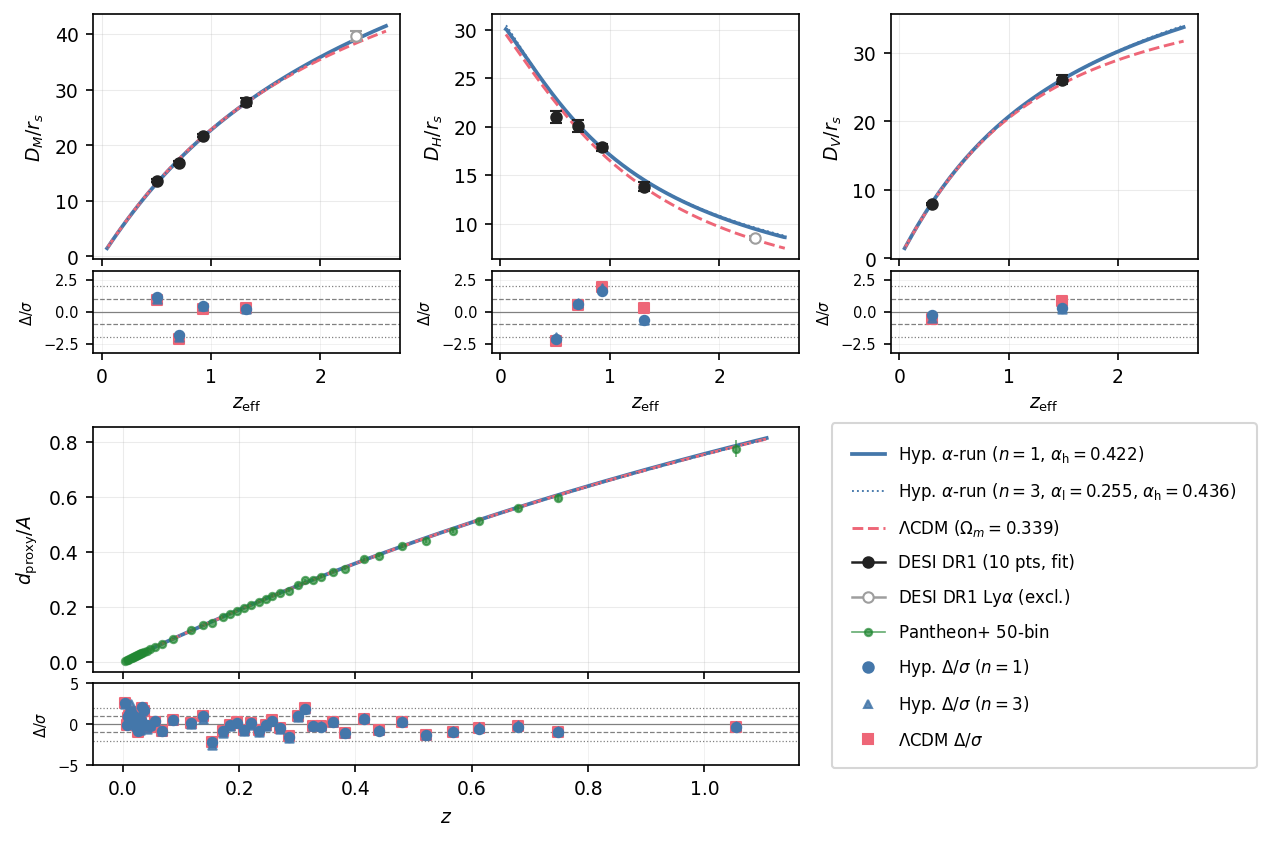
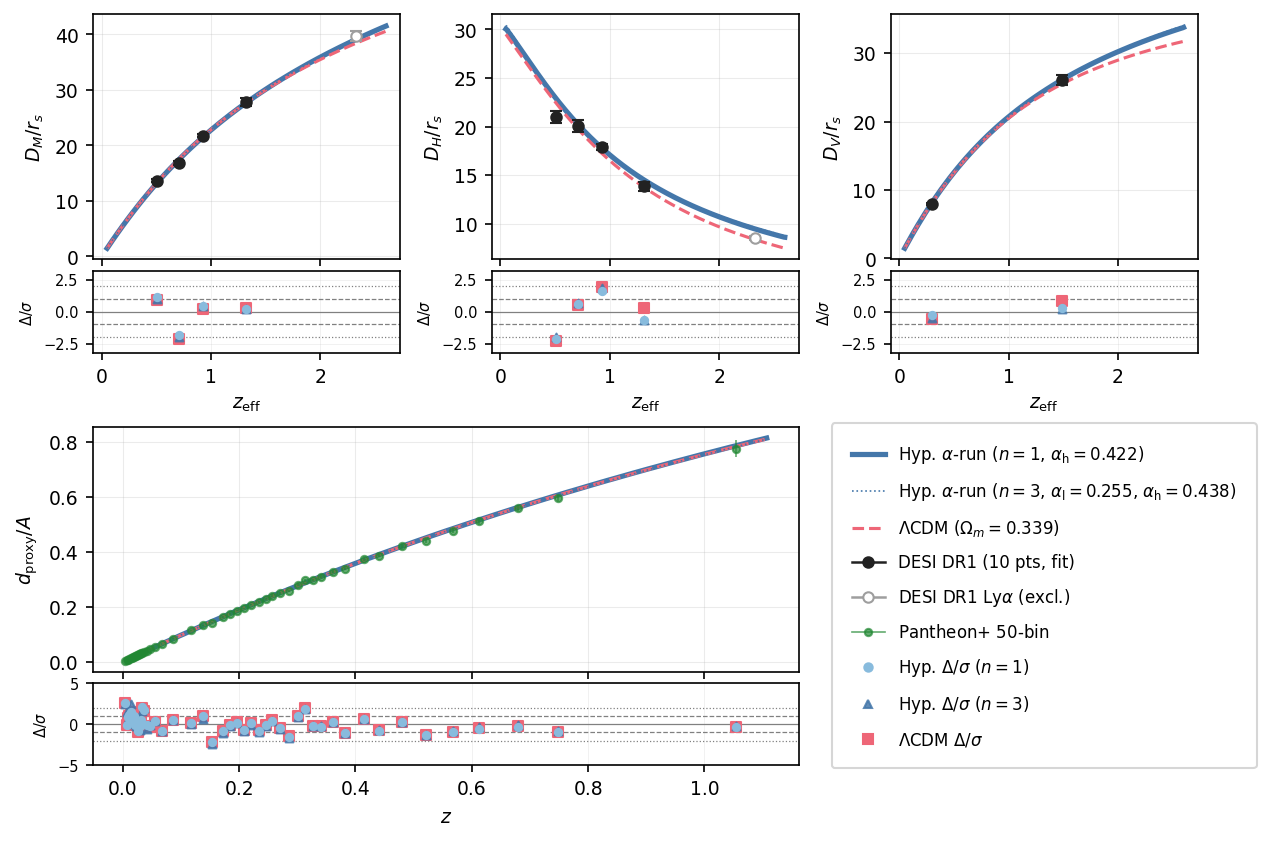
Move method to §2.3; fix chi2 defs; improve Fig 1 line widths and residual markers
- §2.3: define chi2_Yp, chi2_DH; describe 3-par Nelder-Mead joint minimisation;
  define chi2_nu = chi2/(N-n); remove chi2_nu from table footnote
- Results: remove methodological clause from Three-parameter extension paragraph;
  keep only values and findings
- Fig 1: n=1 lw=2.5, LCDM lw=1.5, n=3 lw=0.8 (more contrast);
  n=1 residual markers now lighter blue (#88BBDD), s=12 (smaller, visible above LCDM);
  AH_3PAR updated to 0.4379; legend alpha_h label corrected to 0.438

diff --git a/main.tex b/main.tex
@@ -104,7 +104,7 @@ Flat $\Lambda$CDM serves as the reference throughout.  The Hubble rate is theref
 
 \subsection{Likelihood analysis}\label{sec:methods:likelihood}
 
-Statistical analyses keep $\alpha$ as the single geometric parameter. The fit quality is measured by $\chi_{\rm BAO}^2=(\mathbf{D}^{\rm obs}-\mathbf{D}^{\rm model})^T C^{-1}(\mathbf{D}^{\rm obs}-\mathbf{D}^{\rm model})$, where $\mathbf{D}$ is the vector of measured distance ratios $\{D_M/r_s, D_H/r_s, D_V/r_s\}$ and $C$ is the DESI DR1 full covariance matrix across all BAO distance combinations. Nuisance parameters are eliminated analytically: for BAO the nuisance $\beta=c/(H_0 r_s)$ is minimized at each $\alpha$. For the supernova data, $\chi^2_{\rm SN}=\sum_i [d_{\rm proxy}(z_i)-A\,D_C^{\rm model}(z_i)]^2/\sigma_{d,i}^2$, where $A$ is marginalized analytically. The joint figure of merit is $\chi^2_{\rm joint}=\chi^2_{\rm BAO}+\chi^2_{\rm SN}$, with $\nu=N-n$ ($N$ data points in the constraint, $n$ free parameters), giving $\nu_{\rm BAO}=9$ and $\nu_{\rm SN}=49$. All quoted uncertainties are $1\sigma$; values in parenthetical notation refer to error in the last quoted digit. For model comparison, flat $\Lambda$CDM with free $\Omega_m$ and the same nuisance marginalizations is fitted to the same data, with the Akaike Information Criterion (AIC; \cite{burnham2002model}) adopting $|\Delta\mathrm{AIC}|<2$ as the threshold for indistinguishable model performance.
+Statistical analyses keep $\alpha$ as the single geometric parameter. The fit quality is measured by $\chi_{\rm BAO}^2=(\mathbf{D}^{\rm obs}-\mathbf{D}^{\rm model})^T C^{-1}(\mathbf{D}^{\rm obs}-\mathbf{D}^{\rm model})$, where $\mathbf{D}$ is the vector of measured distance ratios $\{D_M/r_s, D_H/r_s, D_V/r_s\}$ and $C$ is the DESI DR1 full covariance matrix across all BAO distance combinations. Nuisance parameters are eliminated analytically: for BAO the nuisance $\beta=c/(H_0 r_s)$ is minimized at each $\alpha$. For the supernova data, $\chi^2_{\rm SN}=\sum_i [d_{\rm proxy}(z_i)-A\,D_C^{\rm model}(z_i)]^2/\sigma_{d,i}^2$, where $A$ is marginalized analytically. \textcolor{blue}{For the BAO+SN+BBN comparison, single-measurement residuals are appended: $\chi^2_{Y_p}=[(Y_p^{\rm model}-Y_p^{\rm obs})/\sigma_{Y_p}]^2$ and $\chi^2_{\rm D/H}=[(\mathrm{D/H}^{\rm model}-\mathrm{D/H}^{\rm obs})/\sigma_{\rm D/H}]^2$. In the three-parameter extension, $\chi^2_{\rm joint}=\chi^2_{\rm BAO}+\chi^2_{\rm SN}+\chi^2_{Y_p}+\chi^2_{\rm D/H}$ is minimised simultaneously over $(\alpha_{\rm low},\alpha_{\rm high},\eta)$ using Nelder--Mead optimisation; for BAO+SN-only fits, the figure of merit is $\chi^2_{\rm joint}=\chi^2_{\rm BAO}+\chi^2_{\rm SN}$.} \textcolor{red}{\sout{The joint figure of merit is $\chi^2_{\rm joint}=\chi^2_{\rm BAO}+\chi^2_{\rm SN}$, with $\nu=N-n$ ($N$ data points in the constraint, $n$ free parameters), giving $\nu_{\rm BAO}=9$ and $\nu_{\rm SN}=49$.}}\textcolor{blue}{The reduced chi-squared per observable is $\chi^2_\nu=\chi^2/(N-n)$, where $N$ is the number of data points and $n$ the number of free parameters; $\nu_{\rm BAO}=9$ and $\nu_{\rm SN}=49$.} All quoted uncertainties are $1\sigma$; values in parenthetical notation refer to error in the last quoted digit. For model comparison, flat $\Lambda$CDM with free $\Omega_m$ and the same nuisance marginalizations is fitted to the same data, with the Akaike Information Criterion (AIC; \cite{burnham2002model}) adopting $|\Delta\mathrm{AIC}|<2$ as the threshold for indistinguishable model performance.
 
 \section{Results}\label{sec:results}
 
@@ -120,7 +120,7 @@ Statistical analyses keep $\alpha$ as the single geometric parameter. The fit qu
 
 \paragraph{One-parameter model comparison} The constant-$\alpha$ model (best-fit $\alpha=0.320$ for BAO+SN) gives $\chi^2_{\nu,\rm BAO}=2.70$, substantially worse than the $\Lambda$CDM reference ($\chi^2_{\nu,\rm BAO}=1.789$; Table~\ref{tab:joint}), motivating the running-$\alpha$ extension. Among running-$\alpha$ configurations, the BAO+SN-only fit gives $\alpha_{\rm high}=0.425(26)$, $\langle H_{\rm perc}/H_{\rm rad}\rangle_{\rm geom}\approx1.09$, and $\Delta\mathrm{AIC}_{\rm tot}=-1.86$. Enforcing the BBN normalisation $\langle H_{\rm perc}/H_{\rm rad}\rangle_{\rm geom}=1.000$ over $T=0.07$--$0.10\,\mathrm{MeV}$ ($\sigma_H=4\%$ from $Y_p$ \cite{Aver2021,fields2020bbn}) pins $\alpha_{\rm high}=0.422(1)$ with $\chi^2_{\nu,\rm BAO}=1.418$ and $\chi^2_{\nu,\rm SN}=0.816$. A freeze-out calculation \cite{kolbturner1990} yields $Y_p=0.153(6)$, however, indicating that the geometric-mean proxy covers the late synthesis window but not the $n/p$ freeze-out at $T\sim0.8\,\mathrm{MeV}$. 
 
-\paragraph{Three-parameter extension} Freeing $\alpha_{\rm low}$ and $\eta$ in addition to $\alpha_{\rm high}$ ($n=3$,  Table~\ref{tab:joint}) resolves this: $\alpha_{\rm high}$ is constrained by $Y_p$ and $\alpha_{\rm low}$ by a \textcolor{red}{\sout{profile-likelihood fit to the joint BAO+SN data at fixed $\alpha_{\rm high}$}}\textcolor{blue}{joint minimisation of $\chi^2_{\rm BAO}+\chi^2_{\rm SN}+\chi^2_{Y_p}+\chi^2_{\rm D/H}$ over all three parameters simultaneously}, yielding $\alpha_{\rm low}=0.255(16)$ and $\alpha_{\rm high}=\textcolor{red}{\sout{0.4364}}\textcolor{blue}{0.4379}(5)$, with $Y_p=\textcolor{red}{\sout{0.240(3)}}\textcolor{blue}{0.2454(34)}$ (\textcolor{red}{\sout{within $1.5\sigma$ of}}\textcolor{blue}{matching} the observed $0.2453\pm0.0034$ \cite{Aver2021} \textcolor{blue}{to within $0.03\sigma$}) and $\Delta\mathrm{AIC}_{\rm tot}=\textcolor{red}{\sout{-0.80}}\textcolor{blue}{-2.9}$ against the 2-par $\Lambda$CDM reference ($n=3$ against $n=2$), \textcolor{red}{\sout{placing the two models within the $|\Delta\mathrm{AIC}|<2$ indistinguishability threshold}}\textcolor{blue}{mildly favouring the hyperconical model}. Fitting the primordial deuterium abundance \cite{schoneberg2024bbn} requires $\eta=\textcolor{red}{\sout{7.66(6)}}\textcolor{blue}{7.725(78)}\times10^{-10}$, ${\approx}\,\textcolor{red}{\sout{25}}\textcolor{blue}{27}\%$ above the CMB-derived $\eta_{\rm CMB}=6.11\times10^{-10}$; the consistency of this $\eta$ within the hyperconical model remains a subject for future work. The $\Delta\mathrm{AIC}=-2.9$ result is robust to the adopted $H_0$: re-optimising $(\alpha_{\rm low},\alpha_{\rm high},\eta)$ over $H_0\in[65,74]\,\mathrm{km\,s^{-1}\,Mpc^{-1}}$ gives $\Delta\mathrm{AIC}\in[-3.0,-2.8]$, with $\alpha_{\rm high}$ absorbing the shift in BBN expansion rate.
+\paragraph{Three-parameter extension} Freeing $\alpha_{\rm low}$ and $\eta$ in addition to $\alpha_{\rm high}$ ($n=3$,  Table~\ref{tab:joint}) resolves this\textcolor{red}{\sout{: $\alpha_{\rm high}$ is constrained by $Y_p$ and $\alpha_{\rm low}$ by a joint minimisation of $\chi^2_{\rm BAO}+\chi^2_{\rm SN}+\chi^2_{Y_p}+\chi^2_{\rm D/H}$ over all three parameters simultaneously}}\textcolor{blue}{,} yielding $\alpha_{\rm low}=0.255(16)$ and $\alpha_{\rm high}=\textcolor{red}{\sout{0.4364}}\textcolor{blue}{0.4379}(5)$, with $Y_p=\textcolor{red}{\sout{0.240(3)}}\textcolor{blue}{0.2454(34)}$ (\textcolor{red}{\sout{within $1.5\sigma$ of}}\textcolor{blue}{matching} the observed $0.2453\pm0.0034$ \cite{Aver2021} \textcolor{blue}{to within $0.03\sigma$}) and $\Delta\mathrm{AIC}_{\rm tot}=\textcolor{red}{\sout{-0.80}}\textcolor{blue}{-2.9}$ against the 2-par $\Lambda$CDM reference ($n=3$ against $n=2$), \textcolor{red}{\sout{placing the two models within the $|\Delta\mathrm{AIC}|<2$ indistinguishability threshold}}\textcolor{blue}{mildly favouring the hyperconical model}. Fitting the primordial deuterium abundance \cite{schoneberg2024bbn} requires $\eta=\textcolor{red}{\sout{7.66(6)}}\textcolor{blue}{7.725(78)}\times10^{-10}$, ${\approx}\,\textcolor{red}{\sout{25}}\textcolor{blue}{27}\%$ above the CMB-derived $\eta_{\rm CMB}=6.11\times10^{-10}$; the consistency of this $\eta$ within the hyperconical model remains a subject for future work. The $\Delta\mathrm{AIC}=-2.9$ result is robust to the adopted $H_0$: re-optimising $(\alpha_{\rm low},\alpha_{\rm high},\eta)$ over $H_0\in[65,74]\,\mathrm{km\,s^{-1}\,Mpc^{-1}}$ gives $\Delta\mathrm{AIC}\in[-3.0,-2.8]$, with $\alpha_{\rm high}$ absorbing the shift in BBN expansion rate.
 
 \begin{table*}[htbp]
 \centering
@@ -149,7 +149,7 @@ Statistical analyses keep $\alpha$ as the single geometric parameter. The fit qu
 \hline\hline
 \end{tabular}
 \par\vspace{2pt}
-{\footnotesize $^*$D/H in units of $10^{-5}$ and $\eta$ in units of $10^{-10}$. $H_\mathrm{norm}=\langle H_{\rm perc}/H_{\rm rad}\rangle_{\rm geom}$ at $T=0.07$--$0.10\,\mathrm{MeV}$ (Eq.~\ref{eq:running_sqrt}); $n$: number of free parameters (nuisances $\beta$, $A$ marginalized analytically); $\chi^2_\nu = \chi^2/(N-n)$ per observable; $\Delta\chi^2_{\rm BBN}$ and $\chi^2_{\nu,\rm BBN}$ include $Y_p$ and D/H residuals (D/H absent for BAO+SN block); $\Delta\mathrm{AIC}_{\rm tot}=\Delta\chi^2_{\rm BAO}+\Delta\chi^2_{\rm SN}+\Delta\chi^2_{\rm BBN}+2\Delta n$ vs.\ the $\Lambda$CDM reference in each block. $Y_p$ values from a Kolb--Turner analytical calculator \cite{kolbturner1990} recalibrated to $Y_p^{\rm SBBN}=0.24709$ \cite{fields2020bbn}.}
+{\footnotesize $^*$D/H in units of $10^{-5}$ and $\eta$ in units of $10^{-10}$. $H_\mathrm{norm}=\langle H_{\rm perc}/H_{\rm rad}\rangle_{\rm geom}$ at $T=0.07$--$0.10\,\mathrm{MeV}$ (Eq.~\ref{eq:running_sqrt}); $n$: number of free parameters (nuisances $\beta$, $A$ marginalized analytically); \textcolor{red}{\sout{$\chi^2_\nu = \chi^2/(N-n)$ per observable; }}$\Delta\chi^2_{\rm BBN}$ and $\chi^2_{\nu,\rm BBN}$ include $Y_p$ and D/H residuals (D/H absent for BAO+SN block); $\Delta\mathrm{AIC}_{\rm tot}=\Delta\chi^2_{\rm BAO}+\Delta\chi^2_{\rm SN}+\Delta\chi^2_{\rm BBN}+2\Delta n$ vs.\ the $\Lambda$CDM reference in each block. $Y_p$ values from a Kolb--Turner analytical calculator \cite{kolbturner1990} recalibrated to $Y_p^{\rm SBBN}=0.24709$ \cite{fields2020bbn}.}
 \end{table*}
 
 \section{Discussion and conclusions}\label{sec:discussion}

diff --git a/scripts/bao_fit_data.py b/scripts/bao_fit_data.py
@@ -43,7 +43,7 @@ N_SQRT     = 0.5      # fixed exponent: (1+z)^{-0.5} = 1/sqrt(1+z)
 OMEGA_M_LCDM_JNT = 0.339   # LCDM joint BAO+SN optimal (used for all panels)
 # n=3 extension parameters (Table 1, BBN block, α_low+α_high+η free)
 AL_3PAR = 0.255
-AH_3PAR = 0.4364
+AH_3PAR = 0.4379
 
 # ── load BAO data ────────────────────────────────────────────────────────────
 DATA_BAO = ROOT / "data" / "Ardra" / "desi_dr1_bao_galqso_lya_mean.csv"
@@ -236,18 +236,19 @@ ax_sn     = fig.add_subplot(gs_sn[0, 0:2])
 ax_sn_res = fig.add_subplot(gs_sn[1, 0:2], sharex=ax_sn)
 ax_legend = fig.add_subplot(gs_sn[:, 2])
 
-COL_HYP  = "#4477AA"
-COL_LCDM = "#EE6677"
-COL_BAO  = "#222222"
-COL_SN   = "#228833"
+COL_HYP       = "#4477AA"
+COL_HYP_LIGHT = "#88BBDD"   # lighter blue for n=1 residual points
+COL_LCDM      = "#EE6677"
+COL_BAO       = "#222222"
+COL_SN        = "#228833"
 
 def _resid_panel(ax_res, z_pts, res_h, res_l, sig, xlabel, res_h3=None):
     for lv, ls in [(0, "-"), (1, "--"), (-1, "--"), (2, ":"), (-2, ":")]:
         ax_res.axhline(lv, color="gray", lw=0.6, ls=ls)
-    ax_res.scatter(z_pts, res_l / sig, color=COL_LCDM, s=24, marker="s", zorder=2)
+    ax_res.scatter(z_pts, res_l / sig, color=COL_LCDM, s=22, marker="s", zorder=2)
     if res_h3 is not None:
-        ax_res.scatter(z_pts, res_h3 / sig, color=COL_HYP, s=16, marker="^", zorder=3, alpha=0.85)
-    ax_res.scatter(z_pts, res_h / sig, color=COL_HYP,  s=20, zorder=4)
+        ax_res.scatter(z_pts, res_h3 / sig, color=COL_HYP, s=14, marker="^", zorder=3, alpha=0.85)
+    ax_res.scatter(z_pts, res_h / sig, color=COL_HYP_LIGHT, s=12, zorder=4)
     ax_res.set_ylabel(r"$\Delta/\sigma$", fontsize=7)
     ax_res.set_ylim(-3.2, 3.2)
     ax_res.set_xlabel(xlabel)
@@ -262,9 +263,9 @@ panel_cfg = [
     (ax_dv, ax_dv_res, dv_hyp, dv_lcdm, dv_hyp_3, dv_sel, dv_lya, r"$D_V/r_s$"),
 ]
 for ax, ax_res, hyp_c, lc_c, hyp3_c, sel, lya_pts, ylabel in panel_cfg:
-    ax.plot(z_curve, hyp_c,  color=COL_HYP,  lw=1.8)
-    ax.plot(z_curve, lc_c,   color=COL_LCDM, lw=1.4, ls="--")
-    ax.plot(z_curve, hyp3_c, color=COL_HYP,  lw=0.9, ls=":")
+    ax.plot(z_curve, hyp_c,  color=COL_HYP,  lw=2.5)
+    ax.plot(z_curve, lc_c,   color=COL_LCDM, lw=1.5, ls="--")
+    ax.plot(z_curve, hyp3_c, color=COL_HYP,  lw=0.8, ls=":")
     ax.errorbar(z_bao[sel], d_bao[sel], yerr=sig_bao[sel], fmt="o", color=COL_BAO,
                 ms=5, elinewidth=1.2, capsize=3, zorder=5)
     if lya_pts:
@@ -280,9 +281,9 @@ for ax, ax_res, hyp_c, lc_c, hyp3_c, sel, lya_pts, ylabel in panel_cfg:
 
 
 # ── SN panel ──────────────────────────────────────────────────────────────────
-ax_sn.plot(z_sn_curve, dc_sn_hyp,  color=COL_HYP,  lw=1.8)
-ax_sn.plot(z_sn_curve, dc_sn_lcdm, color=COL_LCDM, lw=1.4, ls="--")
-ax_sn.plot(z_sn_curve, dc_sn_hyp_3, color=COL_HYP, lw=0.9, ls=":")
+ax_sn.plot(z_sn_curve, dc_sn_hyp,  color=COL_HYP,  lw=2.5)
+ax_sn.plot(z_sn_curve, dc_sn_lcdm, color=COL_LCDM, lw=1.5, ls="--")
+ax_sn.plot(z_sn_curve, dc_sn_hyp_3, color=COL_HYP, lw=0.8, ls=":")
 ax_sn.errorbar(z_sn, d_sn / A_hyp, yerr=sig_sn, fmt="o", color=COL_SN,
                ms=3.5, elinewidth=0.8, alpha=0.7, zorder=5)
 ax_sn.set_ylabel(r"$d_{\rm proxy}/A$")
@@ -294,11 +295,11 @@ ax_sn_res.set_ylim(-5, 5)
 # ── global legend ─────────────────────────────────────────────────────────────
 ax_legend.axis("off")
 legend_handles = [
-    Line2D([0], [0], color=COL_HYP,  lw=1.8,
+    Line2D([0], [0], color=COL_HYP,  lw=2.5,
            label=r"Hyp. $\alpha$-run ($n=1$, $\alpha_{\rm h}=0.422$)"),
-    Line2D([0], [0], color=COL_HYP,  lw=0.9, ls=":",
-           label=r"Hyp. $\alpha$-run ($n=3$, $\alpha_{\rm l}=0.255$, $\alpha_{\rm h}=0.436$)"),
-    Line2D([0], [0], color=COL_LCDM, lw=1.4, ls="--",
+    Line2D([0], [0], color=COL_HYP,  lw=0.8, ls=":",
+           label=r"Hyp. $\alpha$-run ($n=3$, $\alpha_{\rm l}=0.255$, $\alpha_{\rm h}=0.438$)"),
+    Line2D([0], [0], color=COL_LCDM, lw=1.5, ls="--",
            label=rf"$\Lambda$CDM ($\Omega_m={OMEGA_M_LCDM_JNT}$)"),
     Line2D([0], [0], color=COL_BAO, marker="o", ms=5, lw=1.2,
            label="DESI DR1 (10 pts, fit)"),
@@ -306,7 +307,7 @@ legend_handles = [
            mfc="white", mec=COL_LYA, label=r"DESI DR1 Ly$\alpha$ (excl.)"),
     Line2D([0], [0], color=COL_SN,  marker="o", ms=3.5, lw=0.8, alpha=0.7,
            label=r"Pantheon$+$ 50-bin"),
-    Line2D([0], [0], color=COL_HYP,  marker="o", ms=5, lw=0,
+    Line2D([0], [0], color=COL_HYP_LIGHT, marker="o", ms=4, lw=0,
            label=r"Hyp. $\Delta/\sigma$ ($n=1$)"),
     Line2D([0], [0], color=COL_HYP, marker="^", ms=4, lw=0, alpha=0.85,
            label=r"Hyp. $\Delta/\sigma$ ($n=3$)"),
